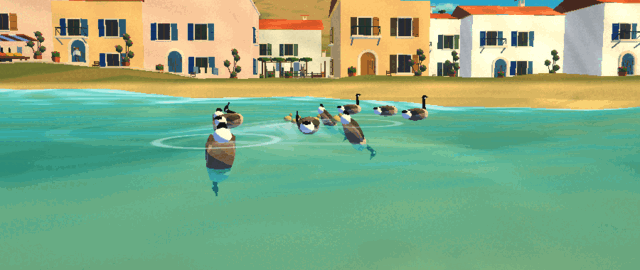
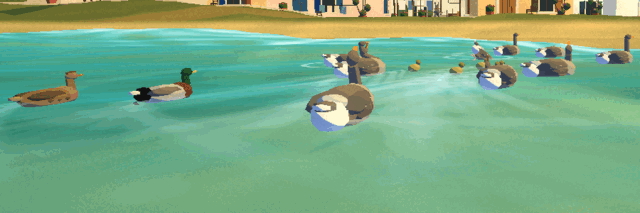
Wildlife: a brood and its parents swim off where the rest fly (goslings cannot), and settle again; birds running over the water beat their wings; honks and quacks made of nasal formant harmonics rather than a raw sawtooth; the glossary entry for the species, the waterline cut and the new captures

diff --git a/docs/glossary/README.md b/docs/glossary/README.md
@@ -1494,32 +1494,39 @@ On the rivers branch until it lands.
 
 ### Wildlife
 
-- **Aliases:** the geese, a raft, the harbour gulls, the goats.
-- **Definition:** animals about the camera, cosmetic like the cats: **rafts** of 5–20 geese on
-  the lakes, wider river reaches and sheltered harbour corners (paddling in loose lines with small
-  wakes, **upending** to feed tail up and head under, preening, drifting on the wind, roosting at
-  night; goslings in some summer rafts); **gulls** wheeling over the harbours, perching on the
-  bollards and ridges, squabbling, and following fishing boats; **herds** of goats or sheep grazing
-  the slopes above villages. A raft that an aircraft taxis or lands close to, or that someone walks
-  up to, first **moves off**, then is **put up**: each goose runs pattering over the water until its
-  wings carry it (lift as the square of its speed) and flies off low behind a leader. Gulls fly
-  themselves too (banking to turn, gliding, flapping when slow or climbing). Low aircraft scatter a
-  herd a little way.
+- **Aliases:** the geese, the ducks, a raft, the harbour gulls, the goats.
+- **Definition:** animals about the camera, cosmetic like the cats. **Rafts** of waterfowl as the
+  1920s Aegean had them: greylag geese (more and larger rafts in winter; in summer some with
+  goslings), and on the lakes and wider river reaches mallards in pairs and coots among them.
+  Harbour corners hold greylags, now and then with a pair of mallards. A raft paddles in loose
+  lines with small wakes, drifts on the wind and roosts at night. Greylags and mallards **upend** to
+  feed: tipped forward, front half and head under, the rear third and tail up at about 55 degrees,
+  feet paddling and splashing at the surface. Coots **dive** instead. A raft that an aircraft taxis
+  or lands close to, or that someone walks up to, first **moves off**, then is **put up**: each bird
+  runs pattering over the water until its wings carry it (lift as the square of its speed; mallards
+  spring off soonest), and flies off low behind a leader of its own kind. **Gulls** fly themselves
+  too (banking into turns, gliding, flapping when slow or climbing), wheel over the harbours, perch
+  on the bollards at the water's edge and on ridges, squabble, and follow fishing caiques.
+  **Herds** of goats or sheep graze the slopes above villages; a low aircraft scatters them a little.
+  Every bird is cut at its **waterline** (`wild_fs`) and rides the sea's swell, so what is under
+  the water is not drawn through the transparent sea.
 - **Code:** `src/wildlife.jo` (`wild_scan`, `wild_harbour_raft`, `wild_hill_herd`,
-  `wild_threat_level`, `raft_step`, `colony_step`, `herd_step`, `wildlife_step`),
-  `src/wildlife_view.jo` (`build_wild_meshes`, `draw_wildlife`, `draw_wildlife_marks`),
-  `src/wildlife_sound.jo` (`wildlife_voices`: honks, cries, bells and bleats as ambience events).
+  `wild_raft_kinds`, `wild_threat_level`, `raft_step`, `colony_step`, `herd_step`, `wildlife_step`),
+  `src/wildlife_view.jo` (`_fowl_meshes`, `_pose_fowl`, `wild_fs`, `draw_wildlife`,
+  `draw_wildlife_marks`), `src/wildlife_sound.jo` (`wildlife_voices`: honks, quacks, coot calls,
+  gull cries, goat bells and bleats as ambience events; the instruments in `src/ambience_synth.jo`).
 - **Rules:** where they live comes from the world's places by hash (`wild_hash` of a settlement's
   id, a lake's id, a river node), never from the camera, and is the same from anywhere; the islands'
-  town harbours keep a raft all year, others are seasonal (more and larger in winter). Nothing is
-  saved and nothing touches the living world. Zero cost with none in range; nothing simulated above
-  1,500 m. Tests: `tests/wildlife_test.jo` (placement determinism, the take-off trigger).
-- **Capture:** `AEGEAN_WILD_LOOK="raft|gulls|flying|herd distance height bearing"` with
-  `AEGEAN_VIEW`; `AEGEAN_WILD_RAFT="ahead 160 14"` with `AEGEAN_CAPTURE_TAKEOFF=1` and
-  `AEGEAN_WILD_WATCH="30 1.8 0.5"` for a raft put up by a taxiing aircraft; `AEGEAN_WILD_TRACE=1`.
+  town harbours keep a raft all year, others are seasonal. Nothing is saved and nothing touches the
+  living world. Zero cost with none in range; nothing simulated above 1,500 m. Tests:
+  `tests/wildlife_test.jo` (placement determinism, the take-off trigger, the species and the dive).
+- **Capture:** `AEGEAN_WILD_LOOK="raft|upend|duck|gulls|herd distance height bearing"` with
+  `AEGEAN_VIEW`; `AEGEAN_WILD_RAFT="ahead 170 14"` with `AEGEAN_CAPTURE_TAKEOFF=1` (and
+  `AEGEAN_LAKE=0` for a lake's run) and `AEGEAN_WILD_WATCH="22 1.4 0.5"` for a raft put up by a
+  taxiing aircraft; `AEGEAN_WILD_CHASE="3.5 0.6"` beside a gull in the air; `AEGEAN_WILD_TRACE=1`.
   On `t3/wildlife`.
 
-![A raft of geese off the home harbour, two upended feeding, goslings among them](img/wildlife.png)
+![Greylags, a pair of mallards and goslings off the home harbour, one goose upended feeding](img/wildlife.png)
 
 ### Pilot's scarf
 
